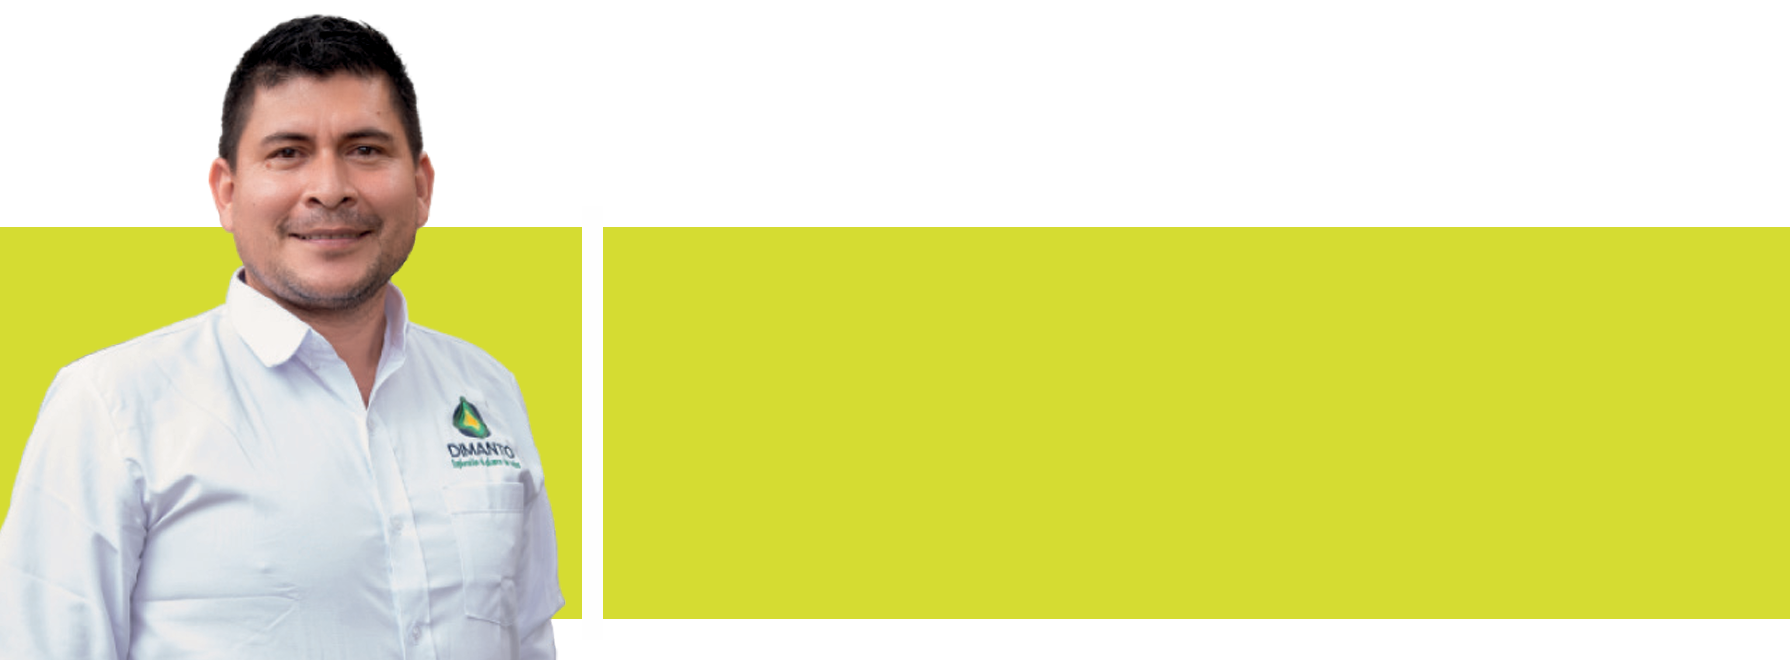
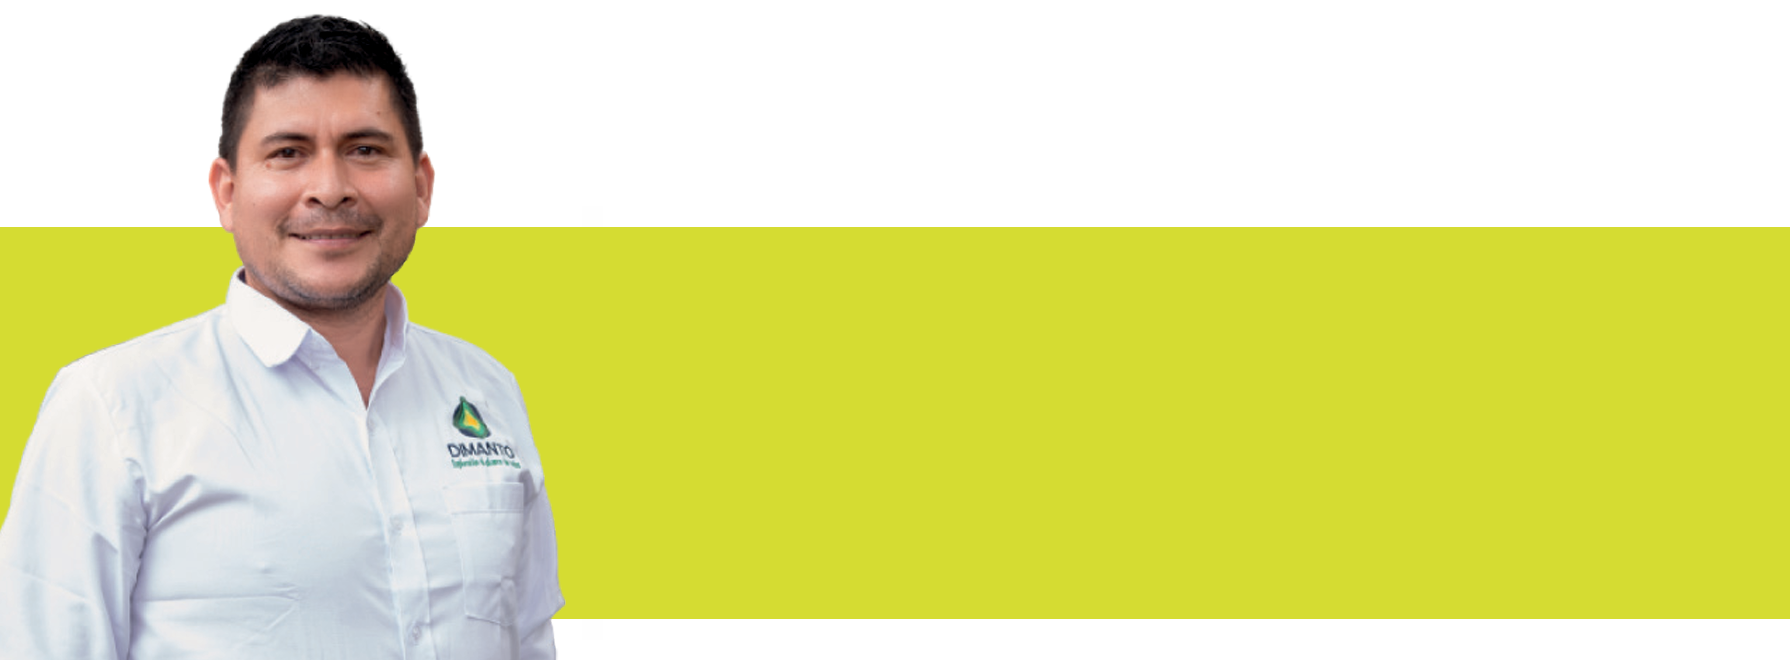
Cambio final v2

Changed region(s): [[0.3073, 0.3333, 0.338, 0.9394]]

diff --git a/Servicios.html b/Servicios.html
@@ -27,93 +27,44 @@
 				<section id="main">
 					<div class="container">
 						<div class="row">
-							<div class="col-4 col-12-medium">
-
-									<section class="box">
-										<a href="#" class="image featured"><img src="images/pic09.jpg" alt="" /></a>
-										<header>
-											<h3>Sed etiam lorem nulla</h3>
-										</header>
-										<p>Lorem ipsum dolor sit amet sit veroeros sed amet blandit consequat veroeros lorem blandit  adipiscing et feugiat phasellus tempus dolore ipsum lorem dolore.</p>
-										<footer>
-											<a href="#" class="button alt">Magna sed taciti</a>
-										</footer>
+							<div class="col-12">
+									<section>										
+										<div class="row">
+											<div class="col-4 col-6-medium col-12-small">
+												<section class="box">
+													<a href="mailto:comercialdimanto@gmail.com"class="image featured"><img src="images\2.png" alt="" /></a>
+												</section>
+												<section class="box">
+													<a href="mailto:comercialdimanto@gmail.com"class="image featured"><img src="images\3.png" alt="" /></a>
+												</section>
+												<section class="box">
+													<a href="mailto:comercialdimanto@gmail.com"class="image featured"><img src="images\8.png" alt="" /></a>
+												</section>									
+											</div>
+											<div class="col-4 col-6-medium col-12-small">
+												<section class="box">
+													<a href="mailto:comercialdimanto@gmail.com" class="image featured"><img src="images\4.png" alt="" /></a>
+												</section>
+												<section class="box">
+													<a href="mailto:comercialdimanto@gmail.com" class="image featured"><img src="images\5.png" alt="" /></a>
+												</section>
+												<section class="box">
+													<a href="mailto:comercialdimanto@gmail.com"class="image featured"><img src="images\9.png" alt="" /></a>
+												</section>
+											</div>
+											<div class="col-4 col-6-medium col-12-small">
+												<section class="box">
+													<a href="mailto:comercialdimanto@gmail.com" class="image featured"><img src="images\6.png" alt="" /></a>
+												</section>
+												<section class="box">
+													<a href="mailto:comercialdimanto@gmail.com" class="image featured"><img src="images\7.png" alt="" /></a>
+												</section>
+												<section class="box">
+													<a href="mailto:comercialdimanto@gmail.com"class="image featured"><img src="images\10.png" alt="" /></a>
+												</section>	
+											</div>
+										</div>
 									</section>
-									<section class="box">
-										<header>
-											<h3>Feugiat consequat</h3>
-										</header>
-										<p>Veroeros sed amet blandit consequat veroeros lorem blandit adipiscing et feugiat sed lorem consequat feugiat lorem dolore.</p>
-										<ul class="divided">
-											<li><a href="#">Sed et blandit consequat sed</a></li>
-											<li><a href="#">Hendrerit tortor vitae sapien dolore</a></li>
-											<li><a href="#">Sapien id suscipit magna sed felis</a></li>
-											<li><a href="#">Aptent taciti sociosqu ad litora</a></li>
-										</ul>
-										<footer>
-											<a href="#" class="button alt">Ipsum consequat</a>
-										</footer>
-									</section>
-
-							</div>
-							<div class="col-8 col-12-medium imp-medium">
-
-									<article class="box post">
-										<a href="#" class="image featured"><img src="images/pic01.jpg" alt="" /></a>
-										<header>
-											<h2>Left Sidebar</h2>
-											<p>Lorem ipsum dolor sit amet feugiat</p>
-										</header>
-										<p>
-											Vestibulum scelerisque ultricies libero id hendrerit. Vivamus malesuada quam faucibus ante dignissim auctor
-											hendrerit libero placerat. Nulla facilisi. Proin aliquam felis non arcu molestie at accumsan turpis commodo.
-											Proin elementum, nibh non egestas sodales, augue quam aliquet est, id egestas diam justo adipiscing ante.
-											Pellentesque tempus nulla non urna eleifend ut ultrices nisi faucibus.
-										</p>
-										<p>
-											Praesent a dolor leo. Duis in felis in tortor lobortis volutpat et pretium tellus. Vestibulum ac ante nisl,
-											a elementum odio. Duis semper risus et lectus commodo fringilla. Maecenas sagittis convallis justo vel mattis.
-											placerat, nunc diam iaculis massa, et aliquet nibh leo non nisl vitae porta lobortis, enim neque fringilla nunc,
-											eget faucibus lacus sem quis nunc suspendisse nec lectus sit amet augue rutrum vulputate ut ut mi. Aenean
-											elementum, mi sit amet porttitor lorem ipsum dolor sit amet, consectetur adipiscing elit. Lorem ipsum dolor
-											sit amet nullam consequat feugiat dolore tempus.
-										</p>
-										<section>
-											<header>
-												<h3>Something else</h3>
-											</header>
-											<p>
-												Elementum odio duis semper risus et lectus commodo fringilla. Maecenas sagittis convallis justo vel mattis.
-												placerat, nunc diam iaculis massa, et aliquet nibh leo non nisl vitae porta lobortis, enim neque fringilla nunc,
-												eget faucibus lacus sem quis nunc suspendisse nec lectus sit amet augue rutrum vulputate ut ut mi. Aenean
-												elementum, mi sit amet porttitor lorem ipsum dolor sit amet, consectetur adipiscing elit. Lorem ipsum dolor
-												sit amet nullam consequat feugiat dolore tempus.
-											</p>
-											<p>
-												Nunc diam iaculis massa, et aliquet nibh leo non nisl vitae porta lobortis, enim neque fringilla nunc,
-												eget faucibus lacus sem quis nunc suspendisse nec lectus sit amet augue rutrum vulputate ut ut mi. Aenean
-												elementum, mi sit amet porttitor lorem ipsum dolor sit amet, consectetur adipiscing elit. Lorem ipsum dolor
-												sit amet nullam consequat feugiat dolore tempus.
-											</p>
-										</section>
-										<section>
-											<header>
-												<h3>So in conclusion ...</h3>
-											</header>
-											<p>
-												Nunc diam iaculis massa, et aliquet nibh leo non nisl vitae porta lobortis, enim neque fringilla nunc,
-												eget faucibus lacus sem quis nunc suspendisse nec lectus sit amet augue rutrum vulputate ut ut mi. Aenean
-												elementum, mi sit amet porttitor lorem ipsum dolor sit amet, consectetur adipiscing elit. Lorem ipsum dolor
-												sit amet nullam consequat feugiat dolore tempus. Elementum odio duis semper risus et lectus commodo fringilla.
-												Maecenas sagittis convallis justo vel mattis.
-											</p>
-										</section>
-									</article>
-
-							</div>
-						</div>
-					</div>
-				</section>
 
 				<section id="footer">
 					<div class="container">
@@ -121,28 +72,28 @@
 							<div class="col-4 col-12-medium">
 								<section>
 									<header>
-										<h2>Contáctanos</h2>
+										<h2 style="color: black;">Contáctanos</h2>
 									</header>
 									<ul class="social">
-										<li><a class="icon brands fa-instagram" href="https://www.instagram.com/dimantogeofisica/"><span class="label">Instagram</span></a></li>
+										<li><a class="icon brands fa-instagram" href="https://www.instagram.com/dimantogeofisica/"><span class="label" >Instagram</span></a></li>
 										<li><a class="icon brands fa-linkedin-in" href="https://www.linkedin.com/in/dimanto-ingenier%C3%ADa-4ab699268/"><span class="label">LinkedIn</span></a></li>
-										<li><a class="icon brands fa-facebook-f" href="#"><span class="label">Facebook</span></a></li>
+										<li><a class="icon brands fa-facebook-f" href="https://www.facebook.com/DimantoGeofisica/?ref=_xav_ig_profile_page_web#"><span class="label">Facebook</span></a></li>
 									</ul>
 									<ul class="contact">
 										<li>
-											<h3>Dirección</h3>
-											<p>
+											<h3 style="color: black;">Dirección</h3>
+											<p style="color: black;">
 												Cl. 68 #17-11 Local 2, La Victoria<br />
 												Barrio La Victoria, Bucaramanga, Santander
 											</p>
 										</li>
 										<li>
-											<h3>Correo</h3>
-											<p><a href="mailto:comercialdimanto@gmail.com">comercialdimanto@gmail.com</a></p>
+										<h3 style="color: black;">Correo</h3>
+											<p><a style="color: black;" href="mailto:comercialdimanto@gmail.com">comercialdimanto@gmail.com</a></p>
 										</li>
 										<li>
-											<h3>Teléfono</h3>
-											<p>3177299087</p>
+											<h3 style="color: black;">Teléfono</h3>
+											<p style="color: black;">3177299087</p>
 										</li>
 									</ul>
 								</section>
@@ -150,7 +101,6 @@
 						</div>
 					</div>
 				</section>
-		</div>
 
 			<script src="assets/js/jquery.min.js"></script>
 			<script src="assets/js/jquery.dropotron.min.js"></script>

diff --git a/index.html b/index.html
@@ -22,7 +22,7 @@
 
 						<section id="banner">
 							<header>
-								<img src="images/logoDimanto.jpg" alt="Logo Dimanto" style="width: 150px;">
+								<img src="images/logoDimanto.png" alt="Logo Dimanto" style="width: 200px;">
 								<h2>Dimanto Ingeniería S.A.S</h2>
 								<p>Exploración al alcance de todos</p>
 							</header>
@@ -73,7 +73,7 @@
 							<div class="col-12">
 									<section>
 										<ul class="actions">
-											<li><a href="#footer" class="button alt large">Portafolio y servicios</a></li>
+											<li><a class="button alt large">Portafolio y servicios</a></li>
 										</ul>
 										<div class="row">
 											<div class="col-4 col-6-medium col-12-small">
@@ -96,7 +96,7 @@
 											</div>
 											<div class="col-4 col-6-medium col-12-small">
 												<section class="box">
-													<a href="#" class="image featured"><img src="images\cap2.jpg" alt="" /></a>
+													<a class="image featured"><img src="images\cap2.jpg" alt="" /></a>
 													<header>
 														<h3>Capacitaciones</h3>
 													</header>
@@ -122,7 +122,7 @@
 									<ul class="social">
 										<li><a class="icon brands fa-instagram" href="https://www.instagram.com/dimantogeofisica/"><span class="label">Instagram</span></a></li>
 										<li><a class="icon brands fa-linkedin-in" href="https://www.linkedin.com/in/dimanto-ingenier%C3%ADa-4ab699268/"><span class="label">LinkedIn</span></a></li>
-										<li><a class="icon brands fa-facebook-f" href="#"><span class="label">Facebook</span></a></li>
+										<li><a class="icon brands fa-facebook-f" href="https://www.facebook.com/DimantoGeofisica/?ref=_xav_ig_profile_page_web#"><span class="label">Facebook</span></a></li>
 									</ul>
 									<ul class="contact">
 										<li>
@@ -146,10 +146,8 @@
 						</div>
 					</div>
 				</section>
-
 		</div>
 
-		<!-- Scripts -->
 			<script src="assets/js/jquery.min.js"></script>
 			<script src="assets/js/jquery.dropotron.min.js"></script>
 			<script src="assets/js/browser.min.js"></script>

diff --git a/assets/css/main.css b/assets/css/main.css
@@ -2172,10 +2172,10 @@ input, select, textarea {
 	}
 
 		#banner header {
-			background-color: rgba(210, 223, 62, 0.98);
+			background-color: #d5dc32;
 			display: inline-block;
-			padding: 2.5em 5em;
-			border-radius: 5px;
+			padding: 1.5em 5em;
+			border-radius: 15px;
 		}
 
 			#banner header h2 {
@@ -2321,8 +2321,6 @@ input, select, textarea {
 				font-size: 1.75em;
 			}
 
-/* XLarge */
-
 	@media screen and (max-width: 1680px) {
 
 		/* Basic */
@@ -2333,17 +2331,11 @@ input, select, textarea {
 
 	}
 
-/* Large */
-
 	@media screen and (max-width: 1280px) {
-
-		/* Basic */
 
 			body, input, textarea, select {
 				font-size: 11pt;
 			}
-
-		/* Section/Article */
 
 			header.major {
 				margin: 0.75em 0 2.5em 0;
@@ -2422,21 +2414,15 @@ input, select, textarea {
 
 	}
 
-/* Medium */
-
 	#navPanel, #titleBar {
 		display: none;
 	}
 
 	@media screen and (max-width: 980px) {
 
-		/* Basic */
-
 			html, body {
 				overflow-x: hidden;
 			}
-
-		/* Box */
 
 			.box footer ul.actions li {
 				margin: 1em 0 0 0;
@@ -2451,19 +2437,13 @@ input, select, textarea {
 					margin-top: 0;
 				}
 
-		/* Header */
-
 			#header {
 				padding: 3.5em 0 3em 0;
 			}
 
-		/* Nav */
-
 			#nav {
 				display: none;
 			}
-
-		/* Intro */
 
 			#intro {
 				padding: 3em 0 0 0;

diff --git a/Proyectos.html b/Proyectos.html
@@ -77,7 +77,7 @@
 									<ul class="social">
 										<li><a class="icon brands fa-instagram" href="https://www.instagram.com/dimantogeofisica/"><span class="label">Instagram</span></a></li>
 										<li><a class="icon brands fa-linkedin-in" href="https://www.linkedin.com/in/dimanto-ingenier%C3%ADa-4ab699268/"><span class="label">LinkedIn</span></a></li>
-										<li><a class="icon brands fa-facebook-f" href="#"><span class="label">Facebook</span></a></li>
+										<li><a class="icon brands fa-facebook-f" href="https://www.facebook.com/DimantoGeofisica/?ref=_xav_ig_profile_page_web#"><span class="label">Facebook</span></a></li>
 									</ul>
 									<ul class="contact">
 										<li>
@@ -104,7 +104,6 @@
 
 		</div>
 
-		<!-- Scripts -->
 			<script src="assets/js/jquery.min.js"></script>
 			<script src="assets/js/jquery.dropotron.min.js"></script>
 			<script src="assets/js/browser.min.js"></script>
